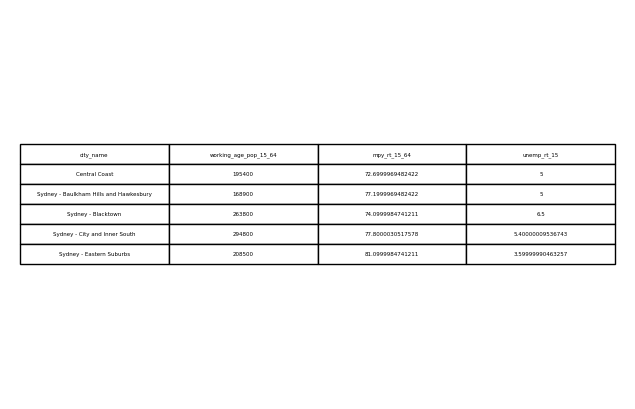
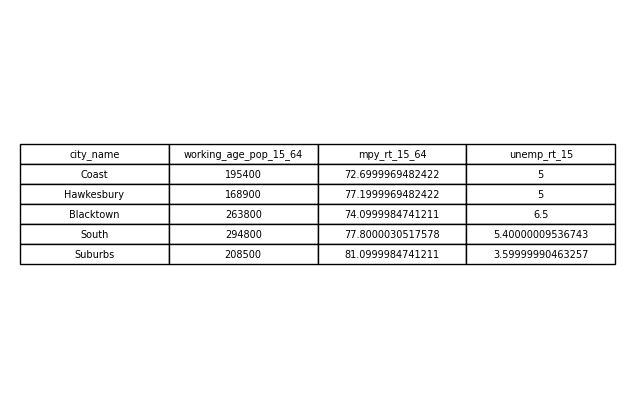
data

diff --git a/csv/write_csv.py b/csv/write_csv.py
@@ -1,0 +1,170 @@
+import couchdb
+import matplotlib.pyplot as plt
+import numpy as np
+import csv
+
+# Login authentication
+admin = 'admin'
+password = 'Sjx991225'
+url = f'http://{admin}:{password}@172.26.130.209:5984/'
+server = couchdb.Server(url)
+# get couchdb instance
+
+title = ["City", "Number of Use"]
+data = []
+
+sydney1 = server['syd_em']
+sydney2 = server['syd_unem']
+sydney3 = server['syn_medical']
+sydney4 = server['sydney_price']
+sydney = [sydney1, sydney2, sydney3, sydney4]
+total = 0
+for i in sydney:
+    for row in i.view('Users/total', group_level="1"):
+        total += row.value
+a_list = ["Sydney", total + 4]
+data.append(a_list)
+
+
+mel1 = server['mel_em']
+mel2 = server['mel_unem']
+mel3 = server['mel_medical']
+mel4 = server['melbourne_price']
+mel = [mel1, mel2, mel3, mel4]
+total = 0
+for i in mel:
+    for row in i.view('Users/total', group_level="1"):
+        total += row.value
+a_list = ["Melbourne", total + 4]
+data.append(a_list)
+
+per1 = server['per_em']
+per2 = server['per_unem']
+per3 = server['perth_medical']
+per4 = server['perth_price']
+per = [per1, per2, per3, per4]
+total = 0
+for i in per:
+    for row in i.view('Users/total', group_level="1"):
+        total += row.value
+a_list = ["Perth", total + 4]
+data.append(a_list)
+
+bri1 = server['bri_em']
+bri2 = server['bri_unem']
+bri3 = server['bri_medical']
+bri4 = server['bri_price']
+bri = [bri1, bri2, bri3, bri4]
+total = 0
+for i in bri:
+    for row in i.view('Users/total', group_level="1"):
+        total += row.value
+a_list = ["Brisbane", total + 4]
+data.append(a_list)
+
+
+ade1 = server['ade_em']
+ade2 = server['ade_unem']
+ade3 = server['adelaide_medical']
+ade4 = server['adelaide_price']
+ade = [ade1, ade2, ade3, ade4]
+total = 0
+for i in ade:
+    for row in i.view('Users/total', group_level="1"):
+        total += row.value
+a_list = ["Adelaide", total + 4]
+data.append(a_list)
+
+ball1 = server['ballarat_medical']
+ball2 = server['ballarat_price']
+ball = [ball1, ball2]
+total = 0
+for i in ball:
+    for row in i.view('Users/total', group_level="1"):
+        total += row.value
+a_list = ["Ballarat", total]
+data.append(a_list)
+
+bun1 = server['bun_em']
+bun2 = server['bun_unem']
+bun = [bun1, bun2]
+total = 0
+for i in bun:
+    for row in i.view('Users/total', group_level="1"):
+        total += row.value
+a_list = ["bunbury", total]
+data.append(a_list)
+
+num1 = server['cen_em']
+num2 = server['cen_unem']
+num = [num1, num2]
+total = 0
+for i in num:
+    for row in i.view('Users/total', group_level="1"):
+        total += row.value
+a_list = ["Central Coast", total]
+data.append(a_list)
+
+num1 = server['dar_em']
+num2 = server['dar_unem']
+num = [num1, num2]
+total = 0
+for i in num:
+    for row in i.view('Users/total', group_level="1"):
+        total += row.value
+a_list = ["Darwin", total]
+data.append(a_list)
+
+num1 = server['hob_em']
+num2 = server['hob_unem']
+num3 = server['hobart_medical']
+num4 = server['hobart_price']
+num = [num1, num2, num3, num4]
+total = 0
+for i in num:
+    for row in i.view('Users/total', group_level="1"):
+        total += row.value
+a_list = ["Darwin", total]
+data.append(a_list)
+
+num1 = server['riv_em']
+num2 = server['riv_unem']
+num3 = server['riverina_medical']
+num4 = server['riverina_price']
+num = [num1, num2, num3, num4]
+total = 0
+for i in num:
+    for row in i.view('Users/total', group_level="1"):
+        total += row.value
+a_list = ["Riverina", total]
+data.append(a_list)
+
+num1 = server['sun_em']
+num2 = server['sun_unem']
+num = [num1, num2]
+total = 0
+for i in num:
+    for row in i.view('Users/total', group_level="1"):
+        total += row.value
+a_list = ["Sunshine Coast", total]
+data.append(a_list)
+
+num3 = server['townsville_medical']
+num4 = server['townsville_price']
+num = [num3, num4]
+total = 0
+for i in num:
+    for row in i.view('Users/total', group_level="1"):
+        total += row.value
+a_list = ["Townsville", total]
+data.append(a_list)
+
+# Specifies the CSV file path to save
+filename = 'data.csv'
+
+# Create and write csv files using the CSV module
+with open(filename, mode='w', newline='') as file:
+    writer = csv.writer(file)
+    writer.writerows(data)
+
+print(f'CSV file "{filename}" has been created and data has been written.')

diff --git a/DS/Summary.py b/DS/Summary.py
@@ -27,7 +27,8 @@ for row in view:
             content = doc[i]
             for j in content:
                 new_con = j['properties']
-                a_list = [new_con[key[0]], new_con[key[1]], new_con[key[2]], new_con[key[3]]]
+                a_list = [new_con[key[0]].split(" ")[-1], new_con[key[1]], new_con[key[2]], new_con[key[3]]]
+
                 data.append(a_list)
 
 
@@ -41,39 +42,38 @@ ax.axis('off')
 table = ax.table(cellText=data[0:6], loc='center', cellLoc='center')
 
 # Set the table style
-table.set_fontsize(20)
+table.set_fontsize(100)
 table.scale(1.2, 1.2)  # Resize the table
 
 # Save as picture
 plt.savefig('summary_2021s.png', bbox_inches='tight', pad_inches=0.2)
 
-title2 = ["city_name", "working_age_pop_15_64", 'mpy_rt_15_64', 'unemp_rt_15']
-data2 = [title2]
-for row in view:
-    doc = row.doc
-    for i in doc:
-        if i == 'summary_2020':
-            content = doc[i]
-            for j in content:
-                new_con = j['properties']
-                a_list = [new_con[key[0]], new_con[key[1]], new_con[key[2]], new_con[key[3]]]
-                data2.append(a_list)
-
-
-# Create charts and subgraphs
-fig, ax = plt.subplots()
-
-# Hide the axes
-ax.axis('off')
-
-# Create table
-table = ax.table(cellText=data2[0:5], loc='center', cellLoc='center')
-
-
-# Set the table style
-table.set_fontsize(20)
-table.scale(1.2, 1.2)  # Resize the table
-
-# Save as picture
-plt.savefig('summary_2020s.png', bbox_inches='tight', pad_inches=0.2)
-
+# title2 = ["city_name", "working_age_pop_15_64", 'mpy_rt_15_64', 'unemp_rt_15']
+# data2 = [title2]
+# for row in view:
+#     doc = row.doc
+#     for i in doc:
+#         if i == 'summary_2020':
+#             content = doc[i]
+#             for j in content:
+#                 new_con = j['properties']
+#                 a_list = [new_con[key[0]], new_con[key[1]], new_con[key[2]], new_con[key[3]]]
+#                 data2.append(a_list)
+#
+#
+# # Create charts and subgraphs
+# fig, ax = plt.subplots()
+#
+# # Hide the axes
+# ax.axis('off')
+#
+# # Create table
+# table = ax.table(cellText=data2[0:5], loc='center', cellLoc='center')
+#
+#
+# # Set the table style
+# table.set_fontsize(20)
+# table.scale(1.2, 1.2)  # Resize the table
+#
+# # Save as picture
+# plt.savefig('summary_2020s.png', bbox_inches='tight', pad_inches=0.2)

diff --git a/draw_plot/price.py b/draw_plot/price.py
@@ -1,0 +1,73 @@
+import couchdb
+import matplotlib.pyplot as plt
+import numpy as np
+
+# Login authentication
+admin = 'admin'
+password = 'Sjx991225'
+url = f'http://{admin}:{password}@172.26.130.209:5984/'
+server = couchdb.Server(url)
+# get couchdb instance
+
+sydney_price = server['sydney_price']
+melbourne_price = server['melbourne_price']
+bri_price = server['bri_price']
+adelaide_price = server['adelaide_price']
+perth_price = server['perth_price']
+townsville_price = server['townsville_price']
+riverina_price = server['riverina_price']
+ballarat_price = server['ballarat_price']
+central_coast_price = server['central_coast_price']
+hobart_price = server['hobart_price']
+city_g = [sydney_price, melbourne_price, bri_price, adelaide_price, perth_price]
+city_s = [townsville_price,
+          ballarat_price,
+          central_coast_price,
+          hobart_price,
+          riverina_price]
+
+great_city = []
+small_city = []
+name1 = []
+name2 = []
+
+
+for i in city_g:
+    for row in i.view('Users/total', group_level="1"):
+        great_city.append(row.value)
+        name1.append(row.key)
+
+
+for i in city_s:
+
+    for row in i.view('Users/total', group_level="1"):
+        small_city.append(row.value)
+        name2.append(row.key)
+
+plt.figure(figsize=(10, 6))
+plt.subplot(211)
+
+x = np.arange(len(great_city))
+
+total_width, n = 0.8, 2
+# 每种类型的柱状图宽度
+width = total_width / n
+
+plt.bar(x+width, great_city, width=width, label='Great city', color="red")
+
+plt.xticks(x + 0.4, name1)
+
+plt.legend()
+
+plt.subplot(212)
+x = np.arange(len(great_city))
+
+total_width, n = 0.8, 2
+# 每种类型的柱状图宽度
+width = total_width / n
+
+plt.bar(x+width, small_city, width=width, label='small city')
+plt.xticks(x + 0.4, name2)
+plt.legend()
+plt.suptitle('Price in Twitter')
+plt.savefig('price.png')

diff --git a/draw_plot/medical graph.py b/draw_plot/medical graph.py
@@ -44,7 +44,6 @@ x = np.arange(len(greater_citys))
 
 plt.bar(x, medical_datas)
 plt.xticks(x, greater_citys)
-plt.legend()
 
 plt.suptitle('Medical Analyse')
-plt.show()
+plt.savefig('medical.png')

diff --git a/draw_plot/bar_vs.py b/draw_plot/bar_vs.py
@@ -92,6 +92,6 @@ plt.xticks(x, greater_citys)
 
 plt.legend()
 plt.suptitle('SUDO VS Twitter')
-plt.show()
+plt.savefig('sVt_bar.png')
 
 

diff --git a/draw_plot/line_vs.py b/draw_plot/line_vs.py
@@ -97,4 +97,4 @@ plt.xticks(x, greater_citys)
 
 plt.legend()
 plt.suptitle('SUDO VS Twitter')
-plt.show()
+plt.savefig('sVt_line.png')
